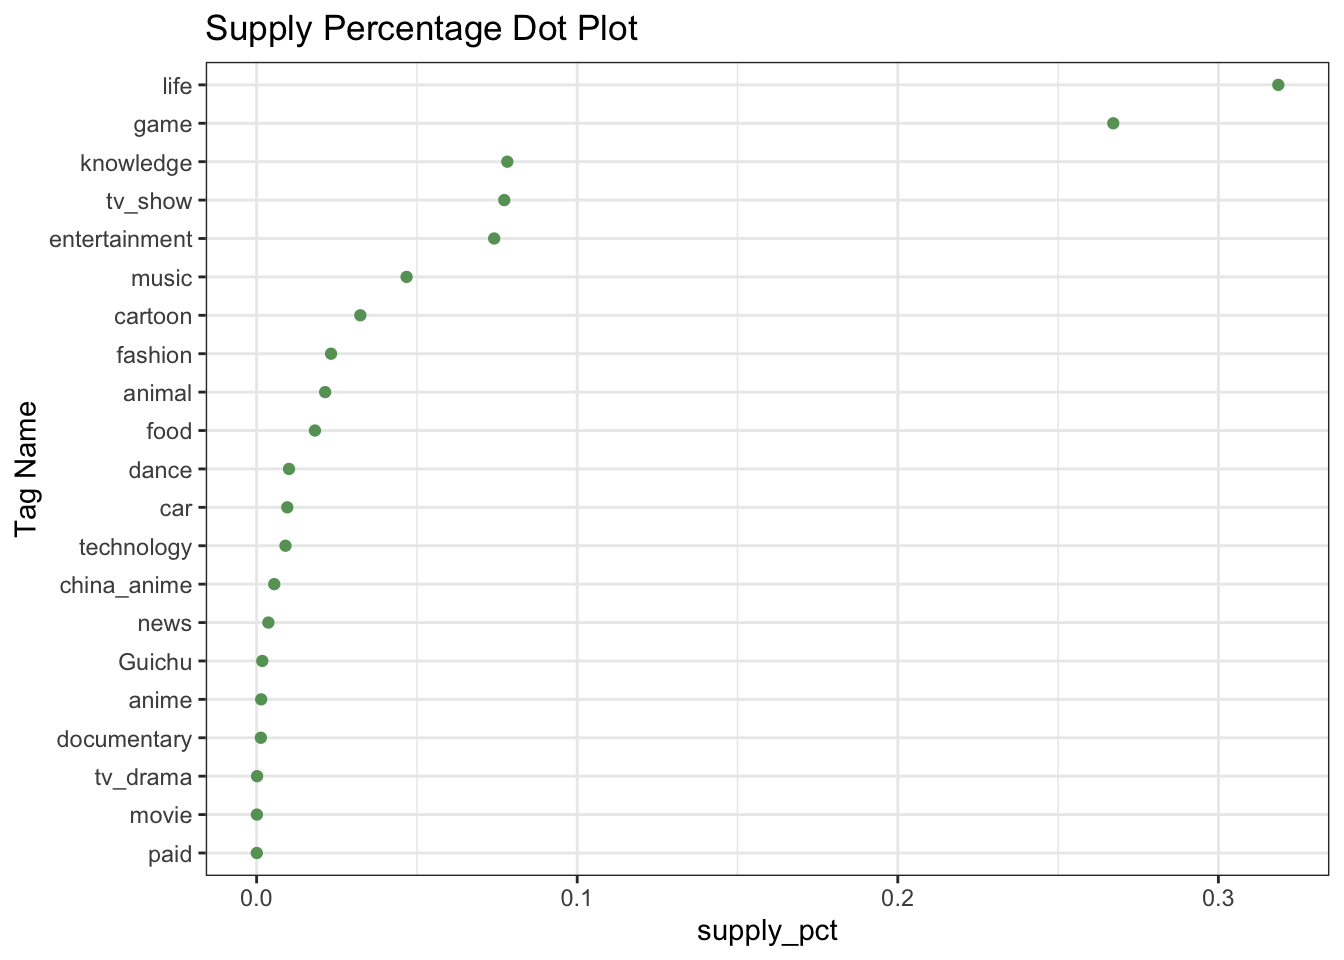
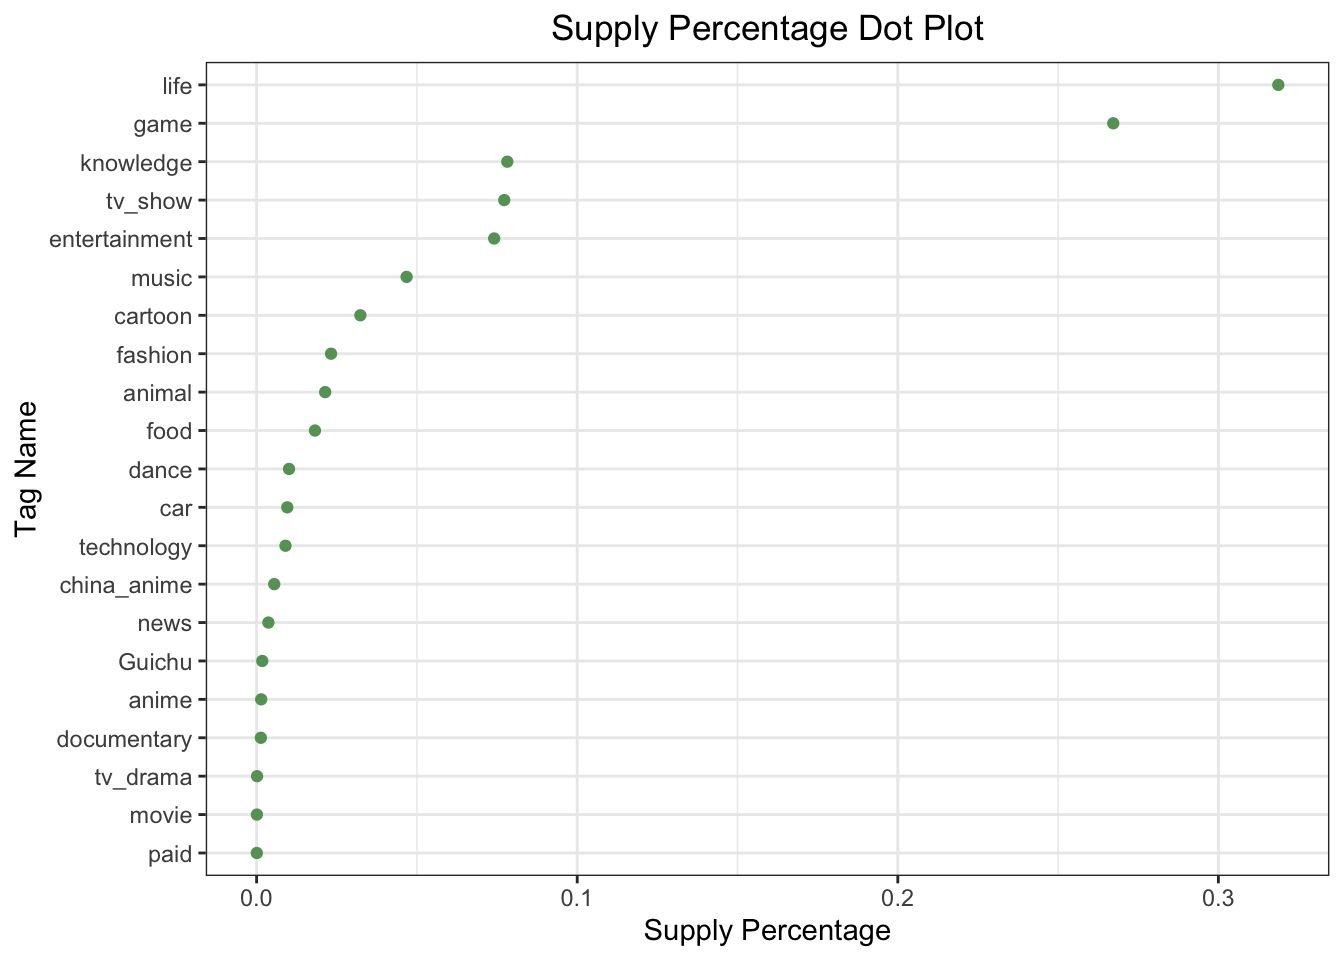
2.5 typo fixed

Changed region(s): [[0.1562, 0.0, 0.7188, 0.0625], [0.4688, 0.9375, 0.6562, 1.0]]

diff --git a/docs/results.html b/docs/results.html
@@ -24,7 +24,7 @@
 <meta name="author" content="Hongtao Jiang, Yujia Xie" />
 
 
-<meta name="date" content="2021-12-12" />
+<meta name="date" content="2021-12-30" />
 
   <meta name="viewport" content="width=device-width, initial-scale=1" />
   <meta name="apple-mobile-web-app-capable" content="yes" />
@@ -33,7 +33,7 @@
   
 <link rel="prev" href="missing-values.html"/>
 <link rel="next" href="interactive-component.html"/>
-<script src="libs/header-attrs-2.10/header-attrs.js"></script>
+<script src="libs/header-attrs-2.11/header-attrs.js"></script>
 <script src="libs/jquery-3.6.0/jquery-3.6.0.min.js"></script>
 <script src="https://cdn.jsdelivr.net/npm/fuse.js@6.4.6/dist/fuse.min.js"></script>
 <link href="libs/gitbook-2.6.7/css/style.css" rel="stylesheet" />
@@ -134,20 +134,20 @@
 <h2><span class="header-section-number">5.1</span> Analysis of Overall Status</h2>
 <p>Before conducting a detailed analysis, we will take a look at the overall status of all content creators on the platform. The general information dataset is used. Active user amount, video creation amount, and video play amount are analyzed from 2018/12 to 2021/03. Comparing these three metrics in groups divided by the number of subscriptions (fan base size level) could help us gain a more comprehensive understanding of the status quo of the content creators on the platform.</p>
 <p>For the monthly active user amount (MAU), one can see an overall increasing trend based on the plot, while the active user amount decreases in early 2020 and reaches a peak in late 2020 and early 2021; the active user amount dropped again after reaching the peak. Moreover, there are a significant amount of content creators with relatively small fan base sizes (0-100 subscriptions). The trend is heavily influenced by the active content creators with a small fan base size. Based on our research, there was a major event on the platform at the end of 2020 to conduct fission marketing to attract new content creators, which is the potential major cause of the significant high active user amount during the period of time. Hence, if the OKR/KPI of the platform during the company quarter is solely based on active user amount (MAU), more campaigns around new content creators should be deployed to keep more small content creators active. However, we do not believe doing so is beneficial to the platform as a whole and we need to take a deeper look at the video creation amount trend and the video play amount trend.</p>
-<p><img src="finalproj_files/figure-html/unnamed-chunk-4-1.png" width="1152" /></p>
+<p><img src="finalproj_files/figure-html/unnamed-chunk-14-1.png" width="1152" /></p>
 <p>For the video creation count, a clear rising trend can be observed based on the plot. All fan base size levels’ content creators produce more videos over time. As the number of active users amount grows across time, the video created by content creators also increases in a more steady fashion. However, the percentage of different fan base size levels in video creation count is not proportional to the percentage inactive user amount. Based on the percentage, we know that content creators with low subscription amounts create fewer videos than content creators with a larger fan base size level monthly.</p>
-<p><img src="finalproj_files/figure-html/unnamed-chunk-5-1.png" width="1344" /></p>
+<p><img src="finalproj_files/figure-html/unnamed-chunk-15-1.png" width="1344" /></p>
 <p>The video play amount increase over time as well, but surprisingly that the distribution of video play amount over groups of content creators is significantly different from MAU and video creation amount. Content creators with a high subscription amount (100k+) are the most prominent group that obtains the highest amount of video plays regardless of the fact that the number of content creators within the group is comparably very small. We can make an assumption that the platform does not give enough exposure to relatively new content creators with a smaller fan base size. The recommender algorithm on the platform favors more towards head users. While it is rational to design an algorithm like that to recommend popular videos to toC users (viewers), it is not beneficial to the development of toB users (content creators) on the platform. Based on the three plots, it is obvious that tail toB users are not given enough exposure and enough rewards to keep them creating videos.</p>
-<p><img src="finalproj_files/figure-html/unnamed-chunk-6-1.png" width="1344" /></p>
+<p><img src="finalproj_files/figure-html/unnamed-chunk-16-1.png" width="1344" /></p>
 <p>To further investifate the problem, we will take a deeper look at the growth path of content creators with different fan base size level.</p>
 </div>
 <div id="analysis-of-content-creators-growth-path" class="section level2" number="5.2">
 <h2><span class="header-section-number">5.2</span> Analysis of content creators’ growth path</h2>
 <p>The growth gap dataset is used for this part of the analysis. For each fan base size level (100~1k subscriptions, 1k~10k subscriptions, 10k~100k subscriptions, 100k+ subscriptions), the average day gap (DG) and videos creation gap (VCG) for content creators to reach the respective level is different and varies across time. To better understand if it has become harder for content creators to reach a certain level, line charts are plotted for DG and AVS.</p>
 <p>For the VCG, the video creation gap is positively correlated with fan base size level across time. Content creators with higher subscriptions amount will need to create more videos to grow to the next level. For content creators to reach subscriptions amount of 100~1k and 1k~10k, the VCGs have a growing trend and reach peaks in the second season in 2021. For content creators to reach subscriptions amount of 100~1k and 1k~10k, the VCG increased until the end of 2018 and then decreased to and keep around 75 videos for 2 years; it experiences a significant rise in the recent year and reaches peak as well in the second season in 2021. There are no significant VCG trends for content creators with over 100k subscriptions. The potential reason for no obvious trends is that there are a limited amount of content creators with over 100+ subscriptions on the platform. The shortage of data results in limited insights of trends across time.</p>
-<p><img src="finalproj_files/figure-html/unnamed-chunk-7-1.png" width="960" /></p>
+<p><img src="finalproj_files/figure-html/unnamed-chunk-17-1.png" width="960" /></p>
 <p>For the DG, the days gap is not correlated with the fan base size level as the DG for content creators to reach 100~1k subscriptions increases drastically over time compared to other levels. For content creators to reach subscriptions amount of 10k~100k and 100k+, DG increases until the end of 2018, decreases until the second season of 2020, and then increases for a year. The trend of DG for content creators to reach 1k~10k is similar except it had a more significant rise in the last two seasons of 2019. The major discovery is that it is unexpected very hard for content creators to grow from 0~100 subscriptions to 100~1k subscriptions. The hardness increases over time and it reaches a peak in the most recent season.</p>
-<p><img src="finalproj_files/figure-html/unnamed-chunk-8-1.png" width="960" /></p>
+<p><img src="finalproj_files/figure-html/unnamed-chunk-18-1.png" width="960" /></p>
 <p>As higher the fan base size, the subscription amount interval becomes larger. For instance, 10k~100w has an interval of 90k and 100~1k only has an interval of 900. Therefore, one can assume that it would be harder for content creators to grow to a higher fan base level size. The VCG plot supports the assumption. However, the DG plot shows that the average day gap for content creators to grow to 100~1k subscription amount from 0~100 has reached 160 days which is only lower than the gap days to reach 100k+ from 10k~100k. While the video creation gap remains low, a high average days gap indicates that new content creators are not motivated to create videos. Once they create videos then they have a big possibility to grow their fan base size quickly because the VCG remains low over time for content creators to grow to 100~1k subscription amount interval.</p>
 <p>Moreover, the trend of DG for content creators to grow to 100~1k has a significant increasing trend. It has become harder for new content creators to increase subscriptions on the platform compared to before. The potential cause is that: the platform has been focused on fission marketing strategies to increase user amount across time and more content creators are coming into the platform in recent years. However, the resources are limited that as the user base size grows not all new content creators would be fully supported in creating videos. Therefore, it takes them longer to increase subscription amount from the beginning as they are neither motivated to create videos nor do their videos get enough exposure in the recommending system.</p>
 <p>In conclusion, the major problem for the growth path of content creators is that new content creators are not motivated to create videos and there are more competitions for more exposure. The conclusion supports our assumption in the first part that tail toB users are not given enough exposure and enough rewards to keep them creating videos.</p>
@@ -155,12 +155,12 @@
 <div id="analysis-of-content-creators-retention" class="section level2" number="5.3">
 <h2><span class="header-section-number">5.3</span> Analysis of content creators’ retention</h2>
 <p>Besides the growth path, retention rate can also be used to analyze if a certain group of users are more likely to have a high churn rate. Based on the plot, one can see that the retention rate is positively correlated with the fan base size level. While a content creator has more subscriptions, he/she is more likely to stay on the platform. Moreover, the stability of the retention rate trend is also correlated with the fan base size level. The content creator groups with relatively large fan base sizes have a more stable retention rate trend, while the group with the smallest subscription amount has the least stable trend. We can conclude that the platform has not taken any actions to retain content creators in the past two years that there is no positive trend found in the plot. Particularly, content creators with 0~100 subscription amounts have the lowest and the most unstable retention rate.</p>
-<p><img src="finalproj_files/figure-html/unnamed-chunk-9-1.png" width="960" /></p>
+<p><img src="finalproj_files/figure-html/unnamed-chunk-19-1.png" width="960" /></p>
 </div>
 <div id="analysis-of-content-creators-tags-and-how-different-tags-differ" class="section level2" number="5.4">
 <h2><span class="header-section-number">5.4</span> Analysis of content creators’ tags and how different tags differ</h2>
 <p>On the platform, each content creator and video created by them will be given tags based on the content. To understand if particular tags have a higher demand or supply on the platform, we conducted an analysis and made a plot below. The plots have tag names as the y-axis and supply percentage, demand percentage, or the difference of the two percentages as the x-axis. The supply percentage is calculated by using the number of videos created with the respective tag divided by the total number of videos of all tags. The demand percentage is calculated by using the number of plays on the videos with the respective tag divided by the total number of plays on videos of all tags. The Demand-Supply difference is calculated by subtracting the demand percentage from the supply percentage. Tags with positive Demand-Supply difference indicate that the demand is larger than the supply, and a negative Demand-Supply difference indicates that the supply is larger than demand.</p>
-<p><img src="finalproj_files/figure-html/unnamed-chunk-10-1.png" width="672" /><img src="finalproj_files/figure-html/unnamed-chunk-10-2.png" width="672" /><img src="finalproj_files/figure-html/unnamed-chunk-10-3.png" width="672" /></p>
+<p><img src="finalproj_files/figure-html/unnamed-chunk-20-1.png" width="672" /><img src="finalproj_files/figure-html/unnamed-chunk-20-2.png" width="672" /><img src="finalproj_files/figure-html/unnamed-chunk-20-3.png" width="672" /></p>
 <p>Based on the first plot, the supply percentage plot, one can see that the videos with ‘life’ and ‘game’ are supplied the most on the platform. They are also the tags with the highest demand on the platform according to the demand percentage plot. However, based on the demand-supply difference plot, they have the lowest demand-supply difference. Based on our research, videos with the tag ‘life’ mostly include Vlogs, life tips, funny videos, etc. It has included a large number of subtags that cover most videos. Many of the videos have a low creation cost that does not require the content creators to spend time and experience to make. Therefore, many videos with the tag ‘life’ have low quality or are highly repetitive. The tag ‘game’ has the same problem that many videos with tag ‘game’ are simply screen recordings of games with no explanation and post-productions. While the platform’s target audience is Gen Z, it is reasonable to assume that gaming and Vlogging are among the most popular topics on the platform. However, their demand-supply differences are both negative. Hence, no further actions should be taken to increase the supply from the content creator end (toB).</p>
 <p>Based on the demand-supply difference plot, ‘cartoon’, ‘technology’, ‘news’, and ‘anime’ are the four tags with the highest difference. While the platform is firstly famous for ACGN (Animation, Comic, Game, Novel) culture, it is reasonable that the ‘cartoon’ and ‘anime’ are among the tags with the highest difference. Videos with these two tags include explanations of the anime story line, post-editing of cartoon or anime, fan-made cartoons, etc, which all require a significant amount of effort and time to produce. The same also applies to ‘technology’ and ‘news’ that requires not only efforts to edit but also knowledge to produce the video. These tags should be promoted more on the platforms and campaigns should also be designed to motivate content creators to create more videos with these tags.</p>
 

diff --git a/docs/data-sources.html b/docs/data-sources.html
@@ -24,7 +24,7 @@
 <meta name="author" content="Hongtao Jiang, Yujia Xie" />
 
 
-<meta name="date" content="2021-12-10" />
+<meta name="date" content="2021-12-30" />
 
   <meta name="viewport" content="width=device-width, initial-scale=1" />
   <meta name="apple-mobile-web-app-capable" content="yes" />
@@ -213,7 +213,7 @@ The features are explained as follows:</p>
 <li><p><code>tname</code>: The tag name.</p></li>
 <li><p><code>supply_3month_avs</code>: The supply amount, which is defined to be the total amount of videos with the tag uploaded in the last 3 months.</p></li>
 <li><p><code>supply_pct</code>: The percentage of the supply amount of the respective tag.</p></li>
-<li><p><code>demand_3month_play</code>: The demand amount, which is defined to be the total amount of videos with the tag uploaded in the last 3 months.</p></li>
+<li><p><code>demand_3month_play</code>: The amount of plays on the videos with the tag.</p></li>
 <li><p><code>demand_pct</code>: The percentage of demand amount of the respective tag.</p></li>
 <li><p><code>demand_supply_diff</code>: <code>demand_pct</code>-<code>supply_pct</code></p></li>
 </ul>

diff --git a/docs/index.html b/docs/index.html
@@ -24,7 +24,7 @@
 <meta name="author" content="Hongtao Jiang, Yujia Xie" />
 
 
-<meta name="date" content="2021-12-12" />
+<meta name="date" content="2021-12-30" />
 
   <meta name="viewport" content="width=device-width, initial-scale=1" />
   <meta name="apple-mobile-web-app-capable" content="yes" />
@@ -33,7 +33,7 @@
   
 
 <link rel="next" href="data-sources.html"/>
-<script src="libs/header-attrs-2.10/header-attrs.js"></script>
+<script src="libs/header-attrs-2.11/header-attrs.js"></script>
 <script src="libs/jquery-3.6.0/jquery-3.6.0.min.js"></script>
 <script src="https://cdn.jsdelivr.net/npm/fuse.js@6.4.6/dist/fuse.min.js"></script>
 <link href="libs/gitbook-2.6.7/css/style.css" rel="stylesheet" />
@@ -131,7 +131,7 @@
 <div id="header">
 <h1 class="title">Status Quo of Content Creators on a video sharing platform</h1>
 <p class="author"><em>Hongtao Jiang, Yujia Xie</em></p>
-<p class="date"><em>2021-12-12</em></p>
+<p class="date"><em>2021-12-30</em></p>
 </div>
 <div id="introduction" class="section level1" number="1">
 <h1><span class="header-section-number">Chapter 1</span> Introduction</h1>

diff --git a/docs/interactive-component.html b/docs/interactive-component.html
@@ -24,7 +24,7 @@
 <meta name="author" content="Hongtao Jiang, Yujia Xie" />
 
 
-<meta name="date" content="2021-12-12" />
+<meta name="date" content="2021-12-30" />
 
   <meta name="viewport" content="width=device-width, initial-scale=1" />
   <meta name="apple-mobile-web-app-capable" content="yes" />
@@ -33,7 +33,7 @@
   
 <link rel="prev" href="results.html"/>
 <link rel="next" href="conclusion.html"/>
-<script src="libs/header-attrs-2.10/header-attrs.js"></script>
+<script src="libs/header-attrs-2.11/header-attrs.js"></script>
 <script src="libs/jquery-3.6.0/jquery-3.6.0.min.js"></script>
 <script src="https://cdn.jsdelivr.net/npm/fuse.js@6.4.6/dist/fuse.min.js"></script>
 <link href="libs/gitbook-2.6.7/css/style.css" rel="stylesheet" />

diff --git a/docs/conclusion.html b/docs/conclusion.html
@@ -24,7 +24,7 @@
 <meta name="author" content="Hongtao Jiang, Yujia Xie" />
 
 
-<meta name="date" content="2021-12-12" />
+<meta name="date" content="2021-12-30" />
 
   <meta name="viewport" content="width=device-width, initial-scale=1" />
   <meta name="apple-mobile-web-app-capable" content="yes" />
@@ -33,7 +33,7 @@
   
 <link rel="prev" href="interactive-component.html"/>
 
-<script src="libs/header-attrs-2.10/header-attrs.js"></script>
+<script src="libs/header-attrs-2.11/header-attrs.js"></script>
 <script src="libs/jquery-3.6.0/jquery-3.6.0.min.js"></script>
 <script src="https://cdn.jsdelivr.net/npm/fuse.js@6.4.6/dist/fuse.min.js"></script>
 <link href="libs/gitbook-2.6.7/css/style.css" rel="stylesheet" />

diff --git a/docs/data-transformation.html b/docs/data-transformation.html
@@ -24,7 +24,7 @@
 <meta name="author" content="Hongtao Jiang, Yujia Xie" />
 
 
-<meta name="date" content="2021-12-10" />
+<meta name="date" content="2021-12-30" />
 
   <meta name="viewport" content="width=device-width, initial-scale=1" />
   <meta name="apple-mobile-web-app-capable" content="yes" />

diff --git a/docs/missing-values.html b/docs/missing-values.html
@@ -24,7 +24,7 @@
 <meta name="author" content="Hongtao Jiang, Yujia Xie" />
 
 
-<meta name="date" content="2021-12-10" />
+<meta name="date" content="2021-12-30" />
 
   <meta name="viewport" content="width=device-width, initial-scale=1" />
   <meta name="apple-mobile-web-app-capable" content="yes" />
